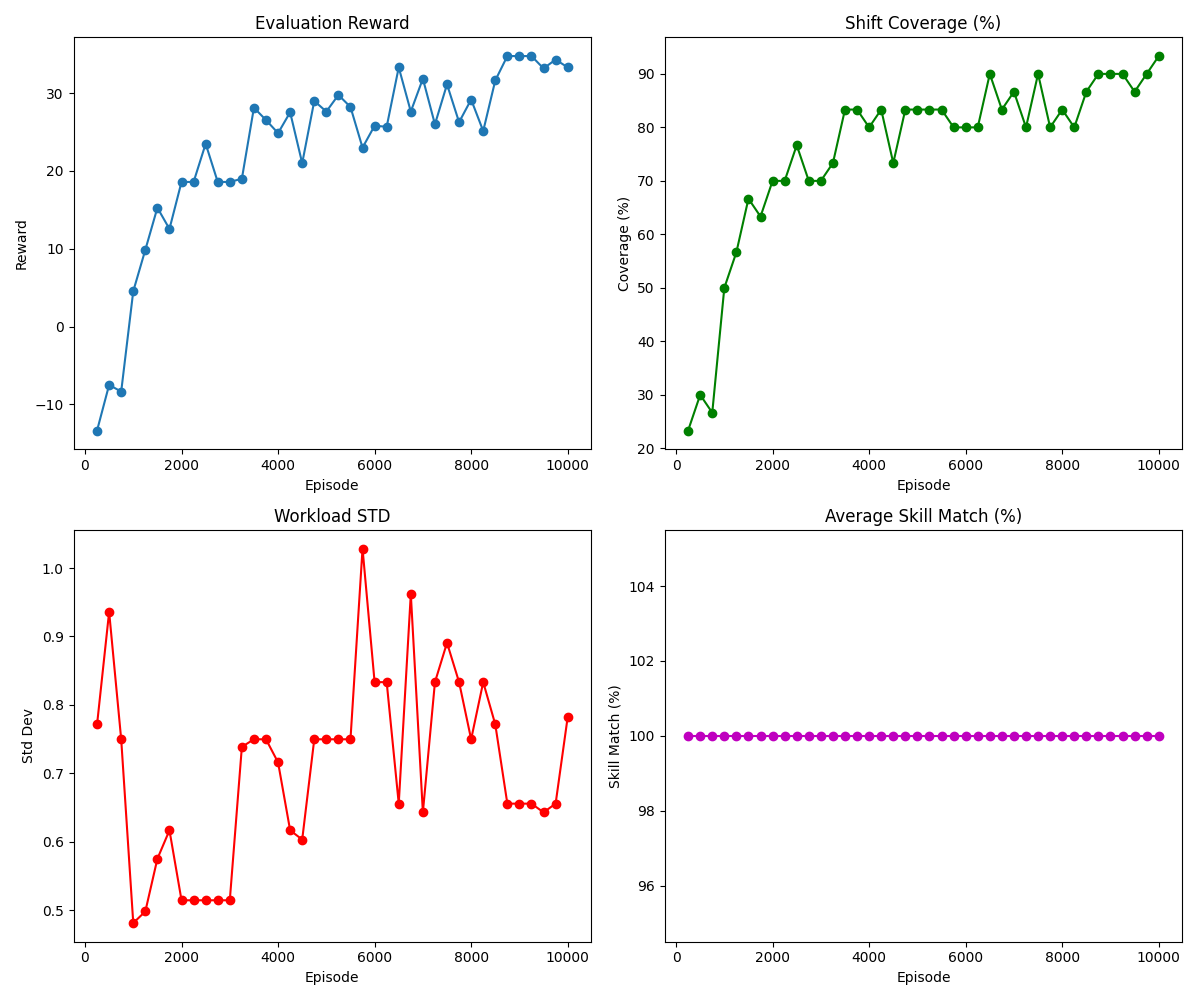
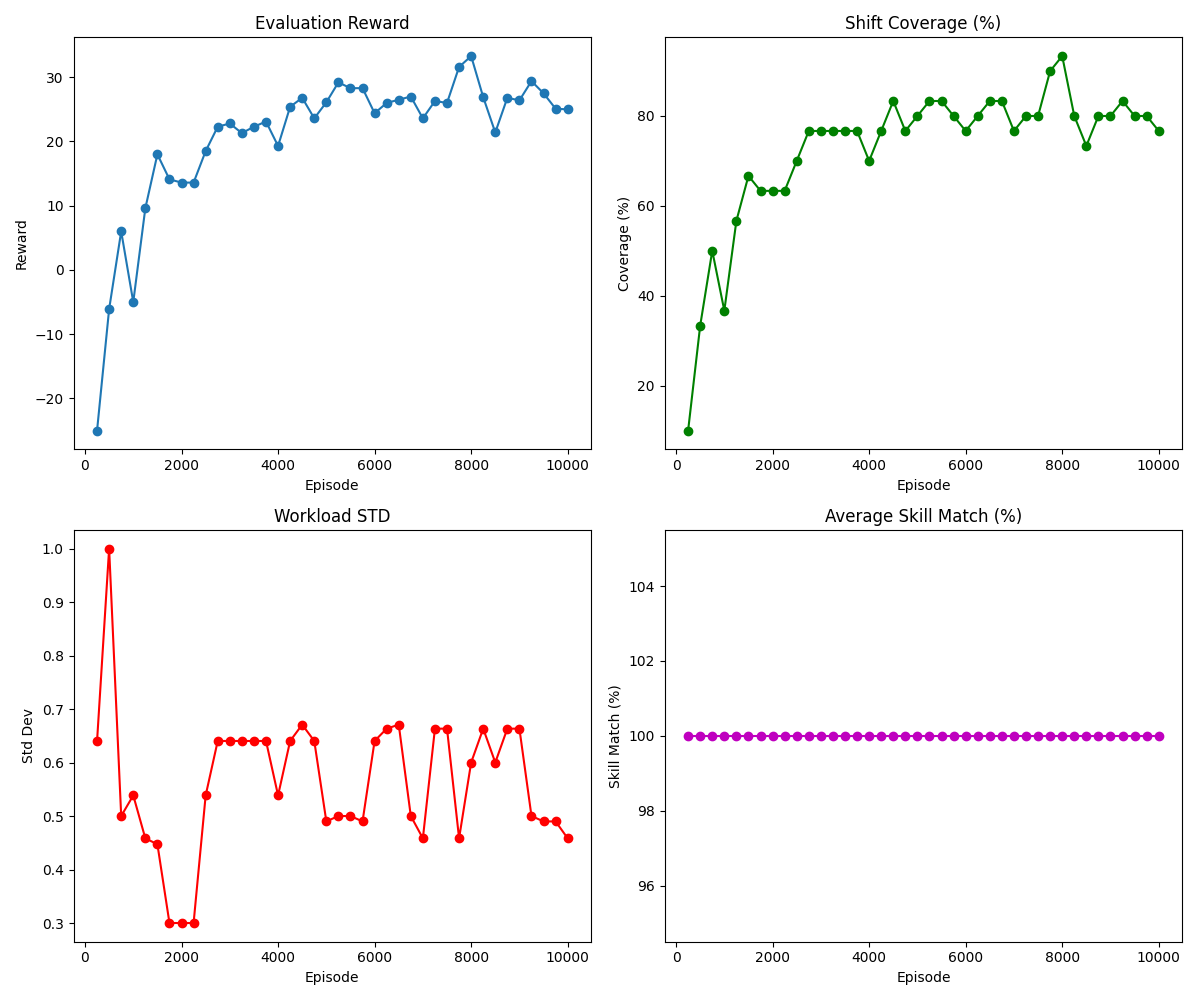
Showcase

diff --git a/recommendation_engine/main.py b/recommendation_engine/main.py
@@ -566,30 +566,24 @@ def detect_cancellation(message):
     return not classify_text(message)
 
 if __name__ == "__main__":
+    import argparse
+    
+    # Set up argument parser
+    parser = argparse.ArgumentParser(description='Run shift scheduling simulation')
+    parser.add_argument('--employees', type=int, default=15, help='Number of employees')
+    parser.add_argument('--shifts', type=int, default=30, help='Number of shifts')
+    args = parser.parse_args()
+
     # Set seeds for reproducibility
     random.seed(42)
     np.random.seed(42)
     torch.manual_seed(42)
 
-    # Test with different combinations of employees and shifts
-    results = []
+    # Run simulation with provided parameters
+    result = run_simulation(n_employees=args.employees, n_shifts=args.shifts, episodes=10000, eval_interval=250)
     
-    # Test with varying number of employees
-    for n_emp in range(11,12):
-        result = run_simulation(n_employees=n_emp, n_shifts=30, episodes=10000, eval_interval=250)
-        results.append(result)
-    
-    # Test with varying number of shifts
-    # for n_shifts in [10, 15, 20, 25, 30]:
-    #    result = run_simulation(n_employees=8, n_shifts=n_shifts)
-    #    results.append(result)
-    
-    # Compare results
-    print("\n=== Comparative Results ===")
-    print("Employee Scaling:")
-    for r in results[:6]:
-        print(f"Employees: {r['n_employees']}, Final Coverage: {r['final_coverage']*100:.1f}%, Workload STD: {r['workload_std']:.2f}")
-    
-    # print("\nShift Scaling:")
-    # for r in results[6:]:
-    #    print(f"Shifts: {r['n_shifts']}, Final Coverage: {r['final_coverage']*100:.1f}%, Workload STD: {r['workload_std']:.2f}")
+    # Print results
+    print("\n=== Simulation Results ===")
+    print(f"Employees: {args.employees}, Shifts: {args.shifts}")
+    print(f"Final Coverage: {result['final_coverage']*100:.1f}%")
+    print(f"Workload STD: {result['workload_std']:.2f}")

diff --git a/recommendation_engine/nlp_module.py b/recommendation_engine/nlp_module.py
@@ -7,28 +7,3 @@ def classify_text(text):
     """Classify text as positive or negative sentiment"""
     result = classifier(text)
     return result[0]['label'] == 'POSITIVE'
-
-
-"""
-# TESTING
-#results = classifier(texts)
-# Example texts representing employee messages about shift cancellation
-texts = [
-
-    "I'm really sorry, but I won't be able to come in tomorrow.",
-    "Looking forward to my shift today, can't wait!",
-    "Due to a personal emergency, I have to cancel my shift.",
-    "I will definitely be there for my shift.",
-    "I cannot make it today",
-    "All good, I'll be there",
-    "Due to unforeseen circumstances, I am cancelling my shift",
-    "I will be coming during my shift",
-    "I have a meeting, so I won't be available",
-    "I have a doctor's appointment, so I won't be able to make it"
-]
-
-## Print the results
-#for text, result in zip(texts, results):
-#    print(f"Text: {text}")
-#    print(f"Prediction: {result['label']} with score {result['score']:.4f}\n")
-"""
